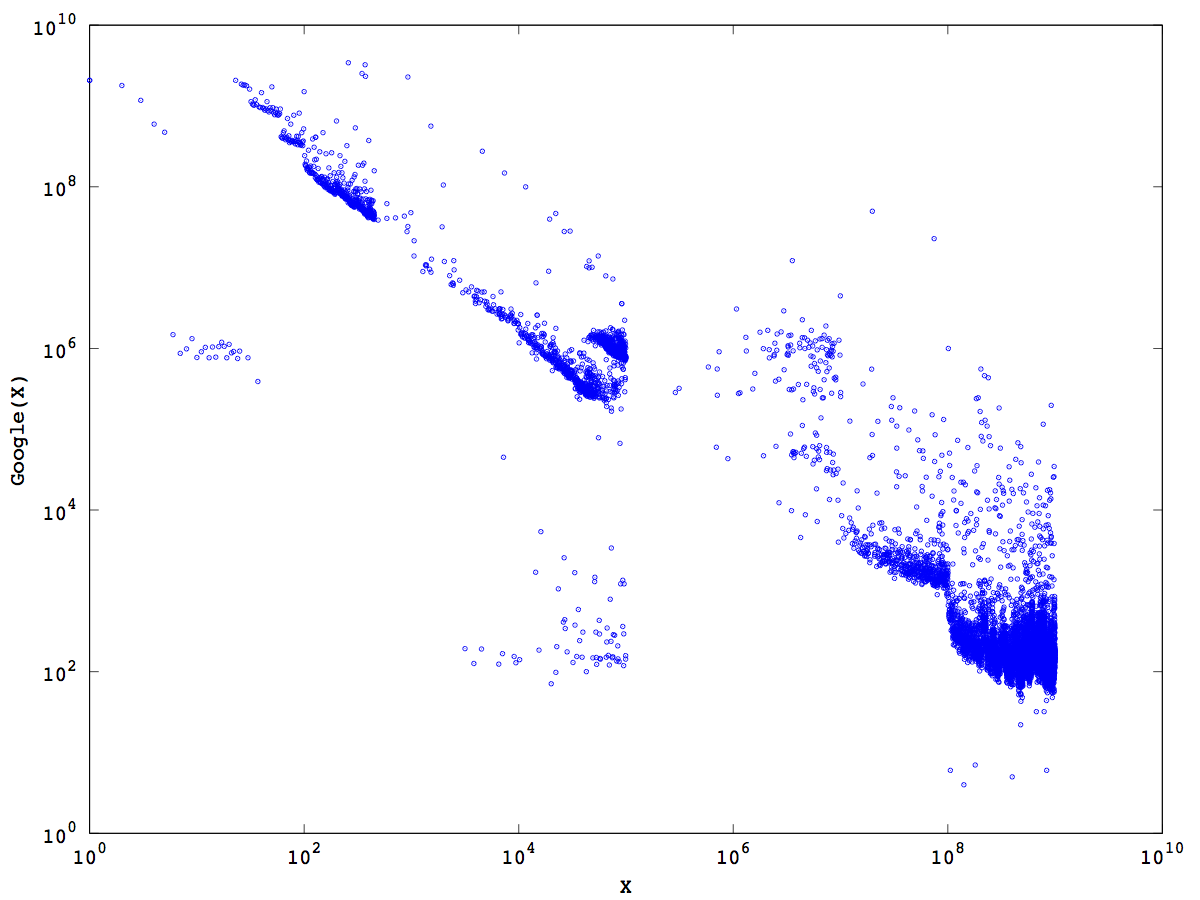
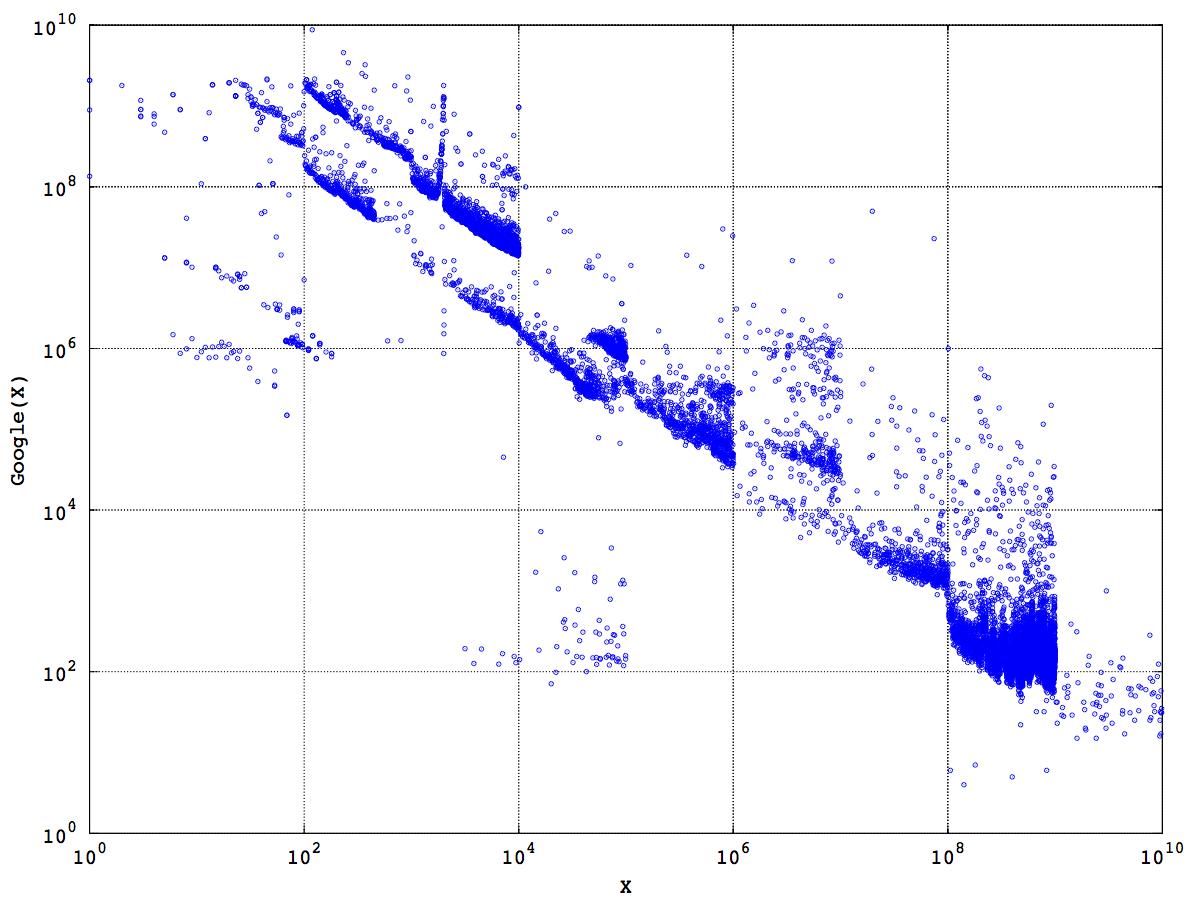
update

diff --git a/google-num/google-num.py b/google-num/google-num.py
@@ -4,7 +4,7 @@ import random
 
 with open('result.txt', 'a') as output:
     for k in range(1,10000):
-        i = random.randint(1e5, 1e6)
+        i = random.randint(1e9, 1e10)
         os.system('(echo "GET /search?q=' + str(i) + '" ; sleep 1) | telnet www.google.com 80 > tmp')
         with open('tmp', 'r') as f:
             data = f.read()
